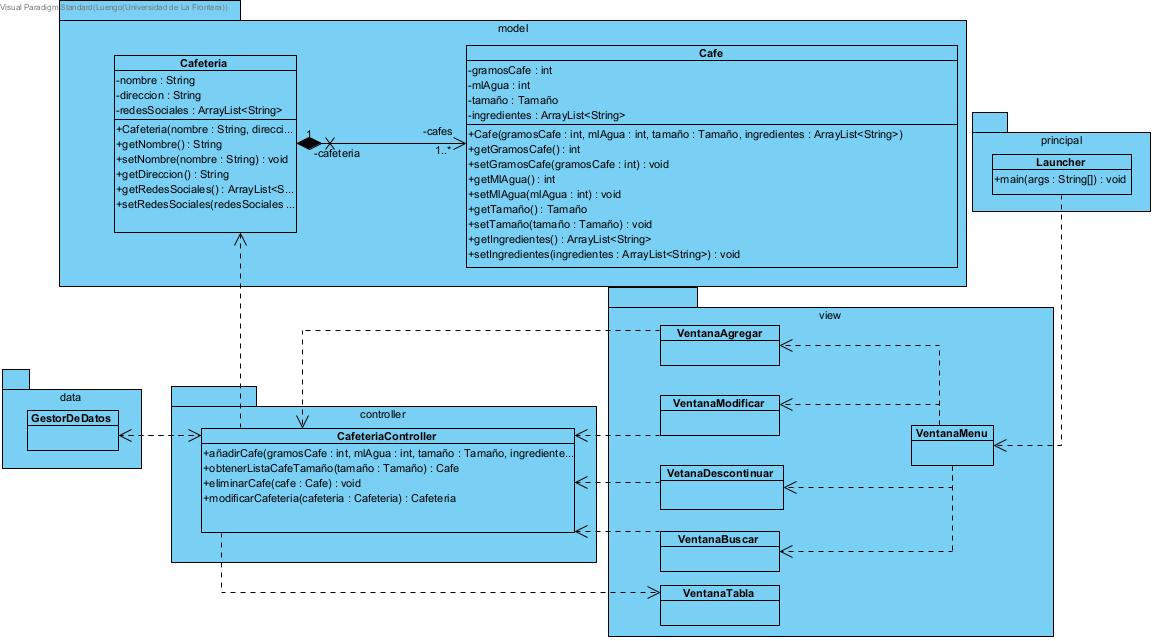
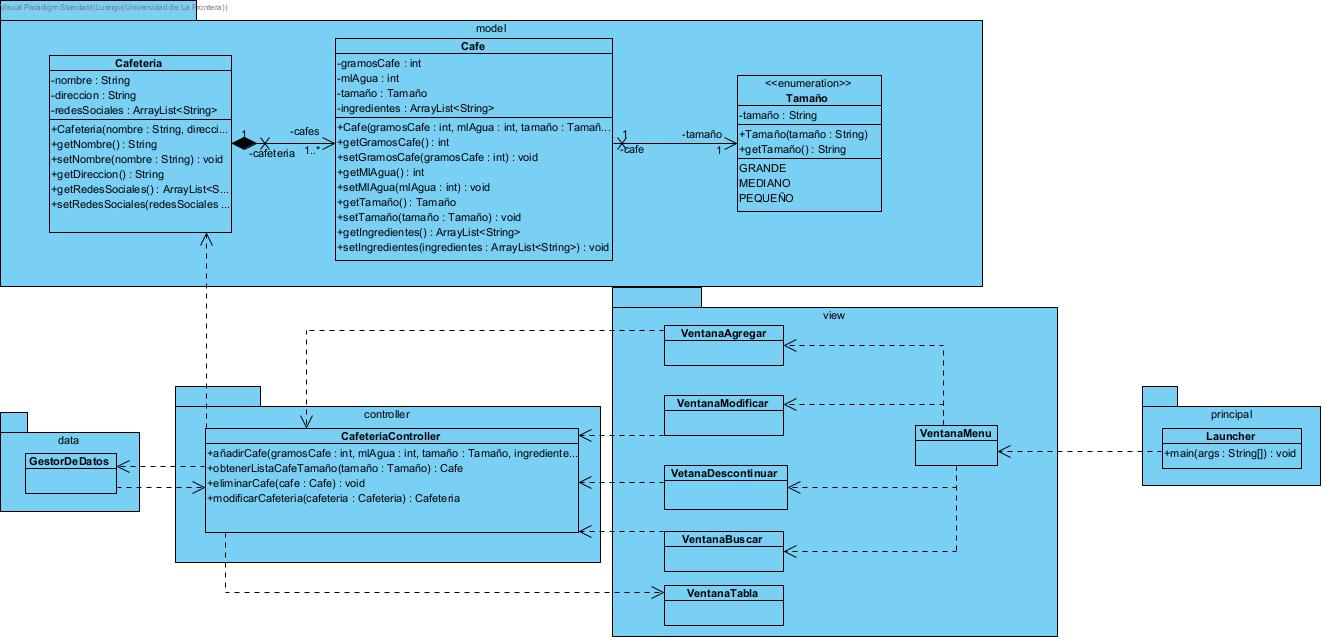
Se sube actualización con clases

diff --git a/src/main/java/data/GestorDeDatos.java b/src/main/java/data/GestorDeDatos.java
@@ -1,0 +1,34 @@
+package data;
+import model.Cafe;
+import model.Cafeteria;
+import model.Tamaño;
+
+import java.io.BufferedReader;
+import java.io.File;
+import java.io.FileReader;
+import java.util.ArrayList;
+import java.util.List;
+import java.util.Locale;
+
+public class GestorDeDatos {
+    public static List<Cafe> leerArchivoCafes(String direccion) {
+        List<Cafe> cafes = new ArrayList<>();
+        String textoArchivo = "";
+        try {
+            File archivo = new File(direccion);
+            FileReader fr = new FileReader(archivo);
+            BufferedReader br = new BufferedReader(fr);
+            //Lee cada linea del archivo hasta que la linea sea nula
+            while ((textoArchivo = br.readLine()) != null) {
+                String[] data = textoArchivo.split(",");
+                cafes.add(new Cafe(data[0], Integer.parseInt(data[1]), Integer.parseInt(data[2]), Tamaño.valueOf(data[3].toUpperCase()) , data[4]));
+            }
+            br.close();
+            fr.close();
+        } catch (Exception e) {
+            System.out.println("Documento no disponible, favor contactar con administrador");
+        }
+        return cafes;
+    }
+
+}

diff --git a/src/main/java/model/Cafe.java b/src/main/java/model/Cafe.java
@@ -1,0 +1,46 @@
+package model;
+
+import java.util.ArrayList;
+
+public class Cafe {
+	private String nombre;
+	private int gramosCafe;
+	private int mlAgua;
+	private Tamaño tamaño;
+	private String ingredientes;
+
+	public Cafe(String nombre, int gramosCafe, int mlAgua, Tamaño tamaño, String ingredientes) {
+		this.nombre = nombre;
+		this.gramosCafe = gramosCafe;
+		this.mlAgua = mlAgua;
+		this.tamaño = tamaño;
+		this.ingredientes = ingredientes;
+	}
+	public String getNombre() {
+		return nombre;
+	}
+	public int getGramosCafe() {
+		return this.gramosCafe;
+	}
+
+	public void setGramosCafe(int gramosCafe) {
+		this.gramosCafe = gramosCafe;
+	}
+
+	public int getMlAgua() {
+		return this.mlAgua;
+	}
+
+	public void setMlAgua(int mlAgua) {
+		this.mlAgua = mlAgua;
+	}
+
+	public String getIngredientes() {
+		return ingredientes;
+	}
+
+	@Override
+	public String toString() {
+		return getNombre()+","+getGramosCafe()+","+getMlAgua()+","+getIngredientes();
+	}
+}

diff --git a/src/main/java/model/Cafeteria.java b/src/main/java/model/Cafeteria.java
@@ -1,0 +1,41 @@
+package model;
+
+import java.util.ArrayList;
+public class Cafeteria {
+	private String nombre;
+	private String direccion;
+	private ArrayList<String> redesSociales;
+	private ArrayList<Cafe> cafes;
+
+	public Cafeteria(String nombre, String direccion, ArrayList<String> redesSociales) {
+		this.nombre = nombre;
+		this.direccion = direccion;
+		this.redesSociales = redesSociales;
+		this.cafes = new ArrayList<>();
+	}
+
+	public String getNombre() {
+		return this.nombre;
+	}
+
+	public void setNombre(String nombre) {
+		this.nombre = nombre;
+	}
+
+	public String getDireccion() {
+		return this.direccion;
+	}
+
+	public ArrayList<String> getRedesSociales() {
+		return this.redesSociales;
+	}
+
+	public void setRedesSociales(ArrayList<String> redesSociales) {
+		this.redesSociales = redesSociales;
+	}
+
+	@Override
+	public String toString() {
+		return getNombre()+","+getDireccion()+","+getRedesSociales();
+	}
+}

diff --git a/src/main/java/controller/CafeteriaController.java b/src/main/java/controller/CafeteriaController.java
@@ -1,0 +1,25 @@
+package controller;
+
+import model.Cafe;
+import model.Cafeteria;
+
+import java.util.ArrayList;
+
+public class CafeteriaController {
+
+	public void aÑadirCafe(int gramosCafe, int mlAgua, String tamaño, ArrayList<String> ingredientes) {
+
+	}
+
+	public Cafe obtenerListaCafeTamaÑo(String tamaño) {
+		throw new UnsupportedOperationException();
+	}
+
+	public void eliminarCafe(Cafe cafe) {
+		throw new UnsupportedOperationException();
+	}
+
+	public Cafeteria modificarCafeteria(Cafeteria cafeteria) {
+		throw new UnsupportedOperationException();
+	}
+}

diff --git a/src/main/java/model/Tamaño.java b/src/main/java/model/Tamaño.java
@@ -1,0 +1,17 @@
+package model;
+
+public enum Tamaño {
+	GRANDE ("GRANDE"),
+	MEDIANO ("MEDIANO"),
+	PEQUEÑO ("PEQUEÑO");
+
+	private String tamaño;
+
+	private Tamaño(String tamaño) {
+		this.tamaño = tamaño;
+	}
+
+	public String getTamaño() {
+		return this.tamaño;
+	}
+}

diff --git a/src/main/java/principal/Launcher.java b/src/main/java/principal/Launcher.java
@@ -1,0 +1,8 @@
+package principal;
+
+public class Launcher {
+
+	public void main(String[] args) {
+		throw new UnsupportedOperationException();
+	}
+}

diff --git a/src/main/java/view/VetanaDescontinuar.java b/src/main/java/view/VetanaDescontinuar.java
@@ -1,0 +1,4 @@
+package view;
+
+public class VetanaDescontinuar {
+}

diff --git a/src/main/java/view/VentanaModificar.java b/src/main/java/view/VentanaModificar.java
@@ -1,0 +1,4 @@
+package view;
+
+public class VentanaModificar {
+}

diff --git a/src/main/java/view/VentanaAgregar.java b/src/main/java/view/VentanaAgregar.java
@@ -1,0 +1,4 @@
+package view;
+
+public class VentanaAgregar {
+}

diff --git a/src/main/java/view/VentanaBuscar.java b/src/main/java/view/VentanaBuscar.java
@@ -1,0 +1,4 @@
+package view;
+
+public class VentanaBuscar {
+}

diff --git a/src/main/java/view/VentanaTabla.java b/src/main/java/view/VentanaTabla.java
@@ -1,0 +1,4 @@
+package view;
+
+public class VentanaTabla {
+}

diff --git a/src/main/java/view/VentanaMenu.java b/src/main/java/view/VentanaMenu.java
@@ -1,0 +1,4 @@
+package view;
+
+public class VentanaMenu {
+}
